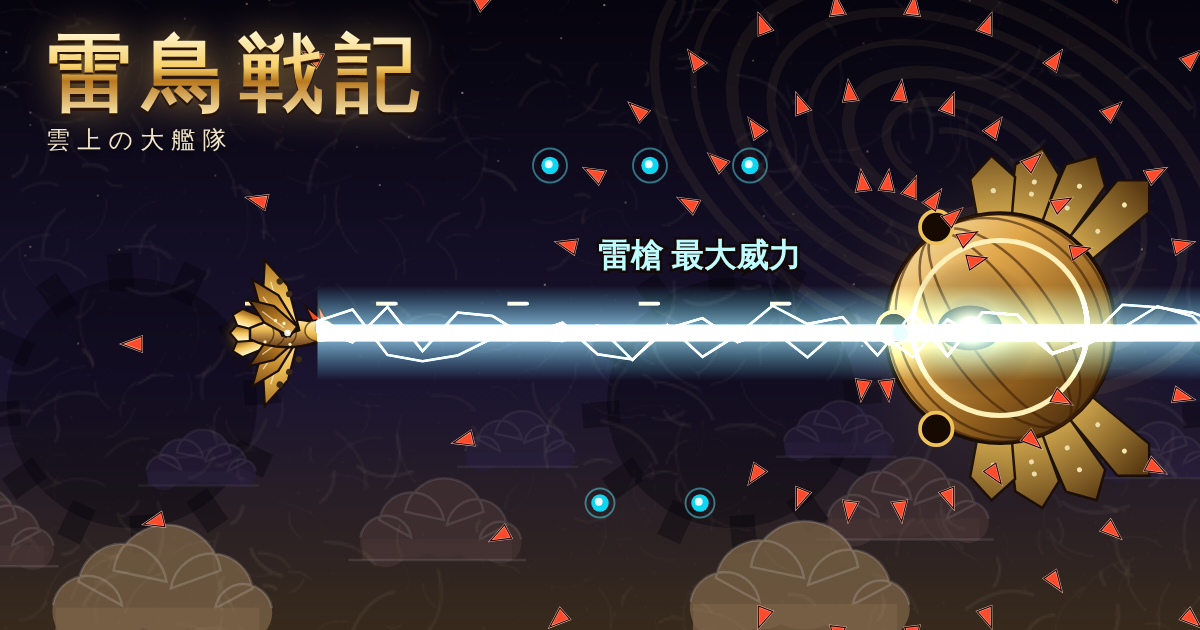
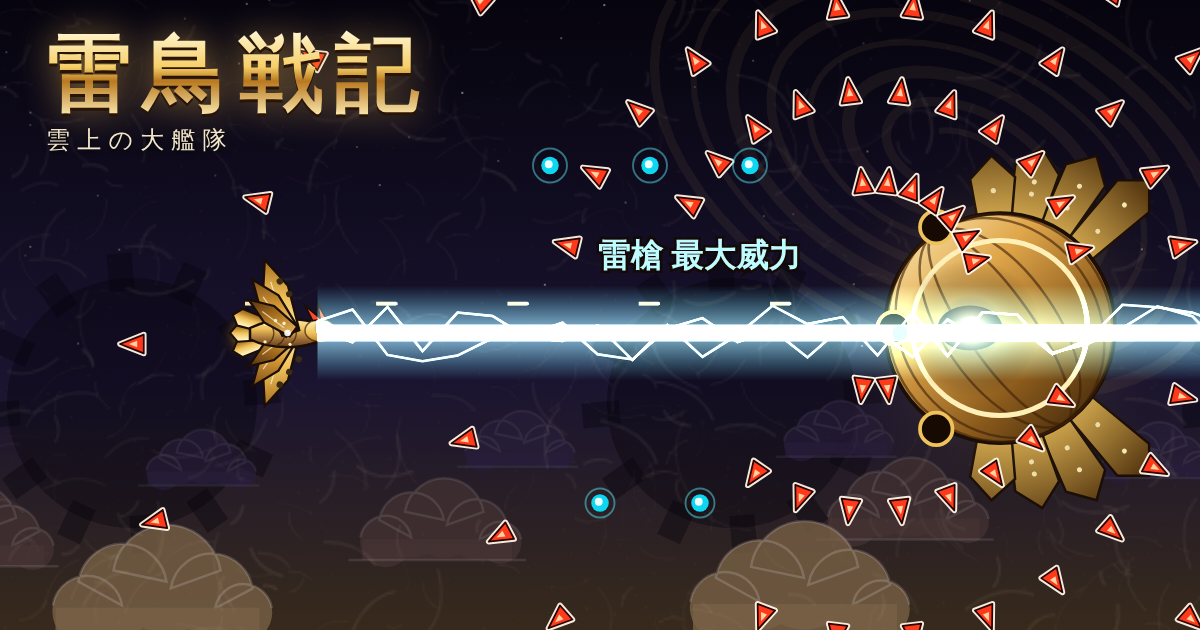
雷鳥戦記：レビュー指摘の修正（スマホでHUDがボスを隠さない、赤弾の縁取り、雷雲母艦の描き込み、見出し位置、日誌カード）
Claude-Session: https://claude.ai/code/session_01MokQnuM6QCUFDTU1RGZ5sY

diff --git a/site/games/thunderbird-sky-fleet/game.js b/site/games/thunderbird-sky-fleet/game.js
@@ -35,20 +35,21 @@ function layout() {
   const portrait = vh > vw * 1.05;
   const field = !['title', 'menu'].includes(app.mode);
   const ctrlH = portrait && touchMode && field ? 134 : 0;
+  const topH = portrait && field && app.mode !== 'og' ? 86 : 0; // 縦画面ではHUDを画面の上の余白に置き、ボスを隠さない
   let sc; let cw; let ch;
   if (!field) { sc = portrait ? vw / H : Math.max(vw / W, vh / H); cw = vw; ch = vh; } // タイトルは画面いっぱいに描く
-  else if (portrait) { sc = Math.min(vw / H, (vh - ctrlH) / W); cw = H * sc; ch = W * sc; }
+  else if (portrait) { sc = Math.min(vw / H, (vh - ctrlH - topH) / W); cw = H * sc; ch = W * sc; }
   else { sc = app.mode === 'og' ? Math.max(vw / W, vh / H) : Math.min(vw / W, vh / H); cw = W * sc; ch = H * sc; }
-  const ox = field ? (vw - cw) / 2 : 0; const oy = !field ? 0 : portrait ? Math.max(0, (vh - ctrlH - ch) / 2) : (vh - ch) / 2;
+  const ox = field ? (vw - cw) / 2 : 0; const oy = !field ? 0 : portrait ? topH + Math.max(0, (vh - ctrlH - topH - ch) / 2) : (vh - ch) / 2;
   const dpr = Math.min(2, window.devicePixelRatio || 1);
   Object.assign(view, { sc, portrait, dpr, cw, ch, ox, oy, vw, vh, ctrlH, field });
   Object.assign(cv.style, { left: `${ox}px`, top: `${oy}px`, width: `${cw}px`, height: `${ch}px` });
   cv.width = Math.round(cw * dpr); cv.height = Math.round(ch * dpr);
   stage.classList.toggle('portrait', portrait); stage.classList.toggle('landscape', !portrait);
-  const hud = $('hud'); Object.assign(hud.style, { left: `${ox}px`, top: `${oy}px`, width: `${cw}px` });
-  $('hint').style.top = `${oy + (portrait ? 118 : 80)}px`; $('hint').style.bottom = 'auto';
-  $('banner').style.top = `${oy + ch * 0.3}px`;
-  $('bossBar').style.top = cw < 560 ? '82px' : '46px';
+  const hud = $('hud'); Object.assign(hud.style, { left: `${portrait ? 0 : ox}px`, top: `${portrait ? 0 : oy}px`, width: `${portrait ? vw : cw}px` });
+  $('hint').style.top = `${oy + (portrait ? ch - 70 : 80)}px`; $('hint').style.bottom = 'auto';
+  $('banner').style.top = `${oy + ch * (portrait ? 0.4 : 0.56)}px`;
+  $('bossBar').style.top = vw < 560 ? '68px' : '46px';
   const t = $('touch'); t.style.height = `${portrait ? ctrlH : vh}px`;
 }
 window.addEventListener('resize', layout);
@@ -190,7 +191,7 @@ function handleEvents(s) {
       case 'absorb':
         part(e.x, e.y, { kind: 'suck', tx: p.x, ty: p.y, col: '#9ffbff', size: 5, life: 0.25 });
         audio.sfx.absorb(e.gauge);
-        if (e.crossed) { audio.sfx.threshold(e.crossed); text(p.x, p.y - 34, e.crossed >= 80 ? '雷槍 最大威力' : '雷槍 OK', { col: '#bffcff', size: 16 }); }
+        if (e.crossed) { audio.sfx.threshold(e.crossed); text(p.x + 40, p.y - 50, e.crossed >= 80 ? '雷槍 最大威力' : '雷槍 OK', { col: '#bffcff', size: 16 }); }
         break;
       case 'lance': audio.sfx.lance(e.power); doShake(e.power >= 4 ? 7 : 4); flash = 0.25; break;
       case 'multi': text(e.x, e.y - 30, `${e.kills}機 同時撃破！`, { col: '#ffe08a', size: 30, life: 1.6 }); audio.sfx.multi(e.kills); break;
@@ -271,7 +272,7 @@ function renderPlay(s, t) {
   for (const sh of s.shots) { ctx.fillStyle = '#ffe9a8'; ctx.fillRect(sh.x - 10, sh.y - 1.5, 16, 3); ctx.fillStyle = '#fff'; ctx.fillRect(sh.x + 2, sh.y - 1, 5, 2); }
   const p = s.player;
   if (p.absorbing) art.drawAbsorb(ctx, p.x, p.y, absorbRadius(s.upgrades), t);
-  art.drawBird(ctx, p.x, p.y, { wing: p.wing, lights: Math.floor(p.gauge / 20), t, blink: p.inv > 0, absorbing: p.absorbing });
+  art.drawBird(ctx, p.x, p.y, { wing: p.wing, lights: Math.floor(p.gauge / 20), t, blink: p.inv > 0, absorbing: p.absorbing, scale: view.portrait ? 1.25 : 1 });
   // 自機の当たり判定（小さな芯）
   ctx.fillStyle = 'rgba(255,255,255,.9)'; ctx.beginPath(); ctx.arc(p.x, p.y, 2.6, 0, Math.PI * 2); ctx.fill();
   for (const bl of s.bullets) if (bl.d <= 0) art.drawBullet(ctx, bl, t);
@@ -436,7 +437,7 @@ function drawEndCard(c) {
   const grd = g.createLinearGradient(0, 0, 0, 260); grd.addColorStop(0, '#2a3e6e'); grd.addColorStop(1, '#e8d6b0');
   g.fillStyle = grd; g.fillRect(0, 0, 640, 260);
   for (let i = 0; i < 5; i++) art.cloud(g, 60 + i * 140, 225, 26, 'rgba(255,255,255,.75)', 'rgba(255,255,255,.9)');
-  art.drawBird(g, 90, 90, { wing: 1, lights: 5, t: 1, scale: 1.4 });
+  art.drawBird(g, 90, 100, { wing: 1, lights: 5, t: 1, scale: 1.0 });
   g.font = '800 22px serif'; g.fillStyle = '#fff3d0'; g.fillText('セナの航海日誌', 170, 50);
   g.font = '14px sans-serif'; g.fillStyle = '#f2e6cc';
   g.fillText(`航路：${c.route ? ROUTES[c.route].name : '—'}　改修：${c.picks.map((k) => UPGRADES[k].name).join('・')}`, 170, 76);

diff --git a/site/games/thunderbird-sky-fleet/art.js b/site/games/thunderbird-sky-fleet/art.js
@@ -455,7 +455,15 @@ function bossCarrier(ctx, t, b) {
     ctx.strokeStyle = C.gold; ctx.lineWidth = 2; for (let k = 0; k < 4; k++) { ctx.beginPath(); ctx.ellipse(x, -6 + k * 5, 9, 2.5, 0, 0, TAU); ctx.stroke(); }
     if (Math.sin(t * 7 + i * 2) > 0.6) { ctx.strokeStyle = '#ffe6ff'; ctx.lineWidth = 2; ctx.beginPath(); ctx.moveTo(x, -12); for (let k = 1; k < 5; k++) ctx.lineTo(x + (hash(k + i + Math.floor(t * 10)) - 0.5) * 30, -12 - k * 14); ctx.stroke(); }
   }
-  glow(ctx, -80, 0, 30, 'rgba(255,120,160,.6)');
+  // 船体の丸窓と、赤い帆、雷を溜める大きな目
+  ctx.fillStyle = '#ffcf7a'; for (let i = 0; i < 6; i++) { ctx.beginPath(); ctx.arc(-70 + i * 28, 44, 4, 0, TAU); ctx.fill(); }
+  ctx.fillStyle = 'rgba(160,20,30,.9)'; ctx.strokeStyle = C.ink; ctx.lineWidth = 2;
+  for (const sx of [-30, 40]) { ctx.beginPath(); ctx.moveTo(sx, 10); ctx.lineTo(sx, -90); ctx.quadraticCurveTo(sx + 36, -50, sx + 4, 10); ctx.closePath(); ctx.fill(); ctx.stroke(); }
+  ctx.fillStyle = '#2a1a12'; ctx.fillRect(-32, -96, 4, 106); ctx.fillRect(38, -96, 4, 106);
+  ctx.fillStyle = metal(ctx, -110, 0, -60, 0, ['#ffe0f0', '#a03060', '#2a0610']); ctx.beginPath(); ctx.ellipse(-92, 32, 22, 16, 0, 0, TAU); ctx.fill(); ctx.stroke();
+  glow(ctx, -92, 32, 34, 'rgba(255,140,200,.8)', 0.6 + 0.4 * Math.sin(t * 5));
+  ctx.fillStyle = '#fff'; ctx.beginPath(); ctx.arc(-96, 32, 5, 0, TAU); ctx.fill();
+  if (Math.sin(t * 3.3) > 0.3) { ctx.strokeStyle = '#ffe6ff'; ctx.lineWidth = 2.5; ctx.beginPath(); ctx.moveTo(-30, -96); for (let k = 1; k < 6; k++) ctx.lineTo(-30 + (hash(k + Math.floor(t * 12)) - 0.5) * 50, -96 - k * 16); ctx.stroke(); }
 }
 function bossEngine(ctx, t, b) {
   // 天の主機：金銅の巨大な球体。翼が開閉し、3つの砲口を持つ
@@ -498,9 +506,12 @@ export function drawBullet(ctx, b, t) {
   } else {
     const a = Math.atan2(b.vy, b.vx);
     ctx.save(); ctx.translate(b.x, b.y); ctx.rotate(a);
-    ctx.fillStyle = '#ff4b2b'; ctx.strokeStyle = '#ffe2c8'; ctx.lineWidth = 1.6;
-    poly(ctx, [b.r + 4, 0, -b.r, -b.r, -b.r, b.r]); ctx.fill(); ctx.stroke();
-    ctx.strokeStyle = '#3a0400'; ctx.lineWidth = 1; ctx.stroke();
+    const r = b.r + 1.5; // 赤弾は暗い縁＋白い縁で、赤い背景でも浮き立たせる
+    poly(ctx, [r + 4, 0, -r, -r, -r, r]);
+    ctx.strokeStyle = 'rgba(255,245,230,.95)'; ctx.lineWidth = 4.5; ctx.lineJoin = 'round'; ctx.stroke();
+    ctx.fillStyle = '#ff3a1a'; ctx.fill();
+    ctx.strokeStyle = '#2a0200'; ctx.lineWidth = 1.4; ctx.stroke();
+    ctx.fillStyle = '#ffd0a0'; poly(ctx, [r * 0.6, 0, -r * 0.3, -r * 0.35, -r * 0.3, r * 0.35]); ctx.fill();
     ctx.restore();
   }
 }

diff --git a/site/games/thunderbird-sky-fleet/style.css b/site/games/thunderbird-sky-fleet/style.css
@@ -65,7 +65,7 @@ kbd { display: inline-block; border: 1px solid rgba(240, 194, 90, .6); border-ra
 .tbtn.fire.on { box-shadow: 0 0 18px rgba(240, 194, 90, .8); }
 .tbtn.absorb.on { box-shadow: 0 0 22px rgba(95, 244, 255, .9); }
 .tbtn.lit { box-shadow: 0 0 0 3px #fff, 0 0 22px rgba(255, 255, 255, .8); }
-.drag-pad { position: absolute; left: 12px; bottom: calc(14px + env(safe-area-inset-bottom)); width: calc(100% - 282px); height: 104px; border-radius: 22px; border: 1px dashed rgba(240, 194, 90, .35); display: flex; align-items: center; justify-content: center; font-size: 12px; color: rgba(255, 240, 200, .55); }
+.drag-pad { position: absolute; left: 12px; bottom: calc(14px + env(safe-area-inset-bottom)); width: calc(100% - 282px); height: 104px; border-radius: 22px; border: 2px dashed rgba(240, 194, 90, .6); background: rgba(240, 194, 90, .06); display: flex; align-items: center; justify-content: center; text-align: center; padding: 6px; font-size: 12px; line-height: 1.5; color: rgba(255, 240, 200, .85); }
 .stage.landscape .drag-pad { display: none; }
 .stage.landscape .tbtn { opacity: .85; width: 96px; height: 88px; }
 .stage.landscape .tbtn.absorb { right: 118px; }

diff --git a/site/games/thunderbird-sky-fleet/index.html b/site/games/thunderbird-sky-fleet/index.html
@@ -42,7 +42,7 @@
       <div id="keys" class="keys" hidden><span><kbd>WASD</kbd>移動</span><span><kbd>J</kbd>撃つ</span><span><kbd>K</kbd>吸う・離して雷槍</span></div>
 
       <div id="touch" class="touch" hidden>
-        <div class="drag-pad" id="dragPad"><span>ドラッグで移動</span></div>
+        <div class="drag-pad" id="dragPad"><span>ドラッグで移動<br>（画面のどこでも）</span></div>
         <button id="btnAbsorb" class="tbtn absorb" type="button"><b>吸う</b><small>離すと雷槍</small></button>
         <button id="btnFire" class="tbtn fire" type="button"><b>撃つ</b><small>押し続ける</small></button>
       </div>
